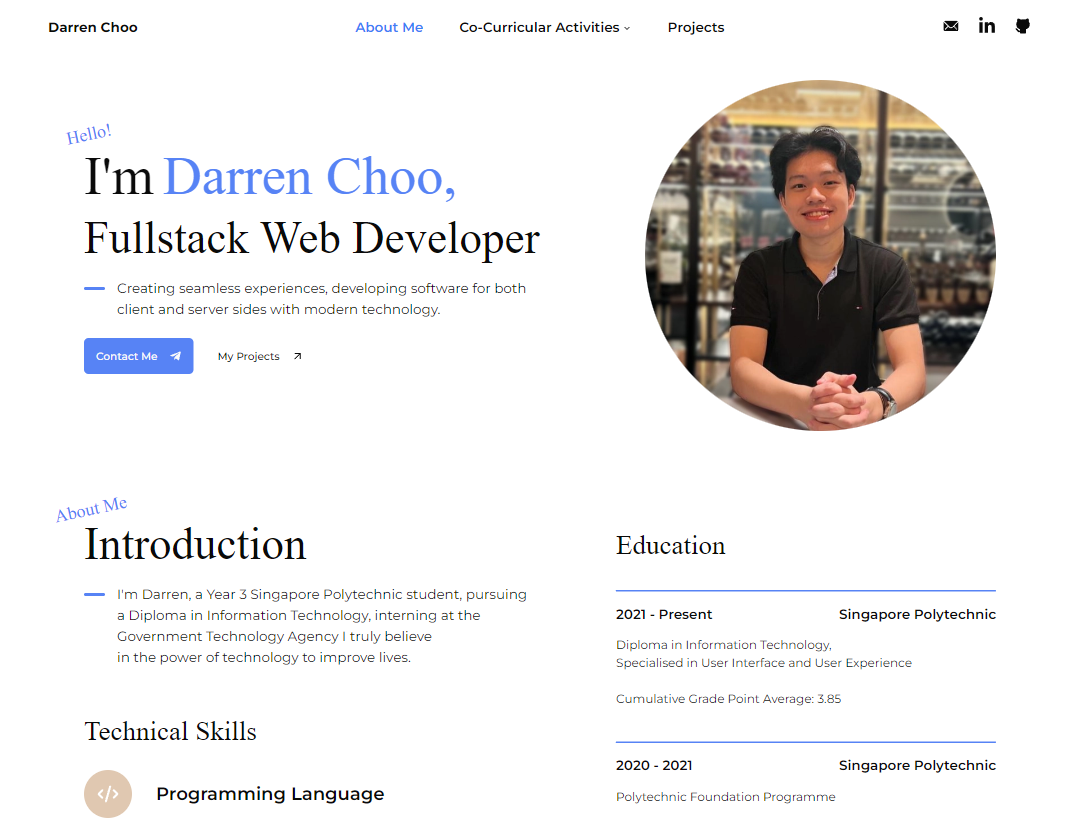
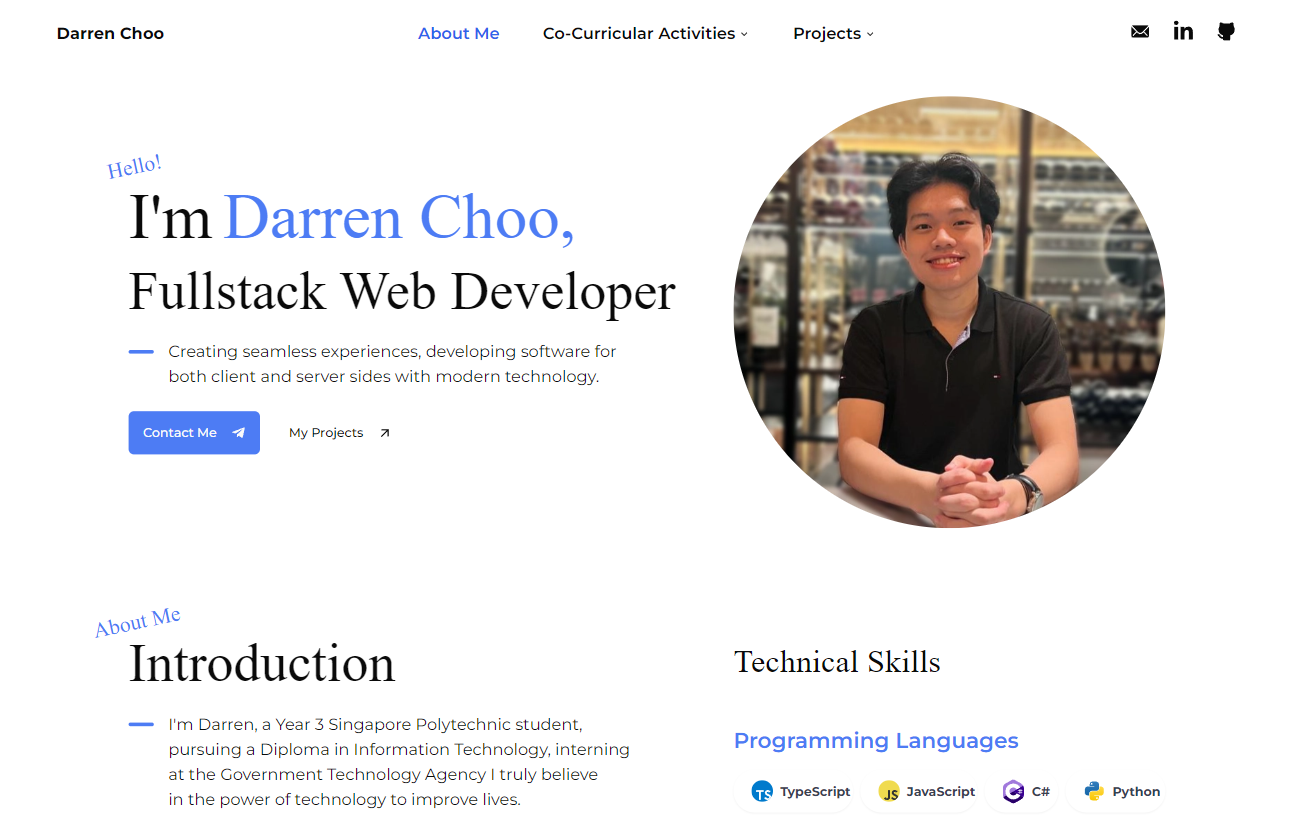
Fixed old next image reponsiveness

diff --git a/src/components/skill.tsx b/src/components/skill.tsx
@@ -4,19 +4,23 @@ import { Button } from "@/components/ui/button";
 import Link from "next/link";
 import Image from "next/image";
 import React from "react";
-import { technicalSkillsData, designSkillsData, SkillProps } from "./skillsData"; 
+import {
+  technicalSkillsData,
+  designSkillsData,
+  SkillProps,
+} from "./skillsData";
 
 const Skills: React.FC = () => {
   return (
     <>
       <div className="py-8">
-        <p className="text-4xl font-title mb-8">Technical Skills</p>
+        <p className="text-4xl font-title mb-4">Technical Skills</p>
         {technicalSkillsData.map((section: SkillProps) => (
           <div key={section.section} className="flex flex-col py-5">
             <p className="text-2xl mb-4 text-lightblue font-semibold">
               {section.section}
             </p>
-            <div className="flex gap-3 flex-wrap">
+            <div className="flex gap-2">
               {section.frameworks.map((framework) => (
                 <Button variant="icon" asChild key={framework.name}>
                   <Link href={framework.url}>
@@ -41,7 +45,7 @@ const Skills: React.FC = () => {
         ))}
       </div>
       <div className="py-8">
-        <p className="text-4xl font-title mb-8">Design Skills</p>
+        <p className="text-4xl font-title mb-4">Design Skills</p>
         {designSkillsData.map((section: SkillProps) => (
           <div key={section.section} className="flex flex-col py-5">
             <p className="text-2xl mb-4 text-lightblue font-semibold">

diff --git a/src/app/(site)/page.tsx b/src/app/(site)/page.tsx
@@ -45,11 +45,12 @@ export default function Home() {
           <Image
             src="/images/me2.png"
             alt="Picture of Me"
-            layout="responsive"
-            priority
-            quality={100}
             width={400}
             height={400}
+            style={{
+              width: "100%",
+              height: "auto",
+            }}
             className="rounded-full "
           />
         </div>
@@ -71,10 +72,12 @@ export default function Home() {
               </p>
             </div>
           </div>
-          <Skills></Skills>
+          <div className="w-3/4">
+            <Academic></Academic>
+          </div>
         </div>
         <div className="basis-5/12">
-          <Academic></Academic>
+          <Skills></Skills>
         </div>
       </div>
     </div>

diff --git a/src/components/skillsData.ts b/src/components/skillsData.ts
@@ -110,6 +110,11 @@ export const technicalSkillsData: SkillProps[] = [
         icon: "aws",
         url: "https://aws.amazon.com/",
       },
+      {
+        name: "Microsoft Azure",
+        icon: "azure",
+        url: "https://azure.microsoft.com/en-us",
+      },
     ],
   },
   {
